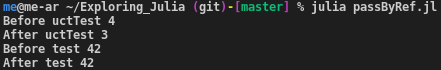
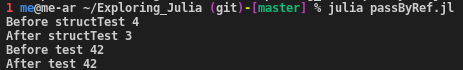
changed code for pass by reference

diff --git a/docs/README.md b/docs/README.md
@@ -21,7 +21,7 @@ Julia is pass by value as long as you are passing in a single primitive. values 
 
 A quick example:
 ```julia
-mutable struct uct
+mutable struct TestType
     var
 end
 
@@ -30,21 +30,21 @@ function test(var)
     return
 end
 
-function uctTest(input::uct)
+function structTest(input::TestType)
     input.var = 3
     return
 end
+# init member variable to 4
+test_struct = TestType(4)
+println("Before structTest $(test_struct.var)")
 
-test_uct = uct(4)
-println("Before uctTest $(test_uct.var)")
-
-uctTest(test_uct)
-println("After uctTest $(test_uct.var)")
+structTest(test_struct) # alter test_struct.var
+println("After structTest $(test_struct.var)")
 
 input_arg = 42
 println("Before test $input_arg")
 
-test(input_arg)
+test(input_arg) # this will not change input_arg
 println("After test $input_arg")
 ```
 That code outputs:
@@ -65,12 +65,11 @@ function f(x,y)
 end
 ```
 
-In this example the first version of the function `f` will be called if the arguments are integers, and the second function will be called if the arguments are not an integer or an integer subtype.
+In this example the first version of the function `f` will be called if the arguments are integers, and the second function will be called if the arguments are not an integer or an integer subtype. Specifying argument types should be done where possible to increase performance.
 
 ## Exception handling
 
-Julia has a lot of builtin exceptions. Some examples follow:
-
+Julia has a lot of builtin exceptions. Some examples of those exceptions follow:
 ```julia
 ArgumentError
 DomainError
@@ -79,7 +78,7 @@ BoundsError
 OutOfMemoryError
 ```
 
-Exceptions can be defined as such:
+Exceptions can be declared and defined as such:
 ```julia
 struct SpecialException <: Exception end
 ```
@@ -108,115 +107,7 @@ end
 
 Memory is  managed automatically, like most scripting languages.
 
-# The Julia paradigm
-
-Julia is not an object oriented programming language. However, there are some leftover traits from the object oriented programming paradigm. The main evidence of this is Julia's subtyping and abstraction.
-
-Julia's abstraction takes place through abstract types. For example:
-```julia
-abstract type Language end
-
-struct English <: Language end
-
-struct Spanish <: Language end
-```
-
-Now any function with
-
-One can declare a subtype of a primitive like this:
-
-```julia
-primitive type Bool <: Integer 8 end
-```
-
-Julia also allows subtyping checks to evaluate to Bool values.
-
-![alt text](https://raw.githubusercontent.com/aklapatch/explore-julia/master/images/evalSubtype.PNG)
-
-### Subtyping applied
-
-Julia can uses this subtyping concept in its equivalent of C++ templates.
-
-```julia
-struct Vehicle{T}
-    Type::T
-    weight::Float64
-    engine::String
-    gun::String
-end
-```
-One can check the subtyping of this struct as such:
-
-![alt text](https://raw.githubusercontent.com/aklapatch/explore-julia/master/images/subtypeStruct.PNG)
-
-Julia uses multiple dispatch, so it does not consider any concrete type to be a subtype of another concrete type.
-
-![alt text](https://raw.githubusercontent.com/aklapatch/explore-julia/master/images/concreteSubtypes.PNG)
-
-Even though:
-
-![alt text](https://raw.githubusercontent.com/aklapatch/explore-julia/master/images/FloatSubtype.PNG)
-
-### Multiple Dispatch
-
-In few words, multiple dispatch is runtime function overloading.
-
-In more words, it selects a function at runtime based on the types of the arguments. If you specify a an argument as a supertype, it will accept all subtypes of that supertype.
-
-```julia
-function test(y::Real)
-    if (y>20)
-        return 1
-    else
-        return 0
-    end
-end
-
-function main()
-    t::Float32 = 34.34234
-    x::Float64 = 34.34234
-    
-    println("val= ",test(t))
-    println("val= ",test(x))
-end
-
-main()
-```
-
-Running that yields this result:
-
-![alt text](https://raw.githubusercontent.com/aklapatch/explore-julia/master/images/subSuperType.PNG)
-
-#### Why Multiple Dispatch? (Why no objects?)
-
-The main reasons I have found are simplicity and ease of extending existing code.
-
-The most common example of this is implementing functions that could, in an object-oriented language, be bound to two different objects. 
-
-One possible situation that exemplifies this is simulating a person starting a car.
-
-In Julia that function could look like this:
-```julia
-function startCar(input_person::Person, input_car::Car)
-    start!(input_car)
-end
-```
-
-Following an object oriented programming style, Java in this case, would have a function prototype like this
-
-```java
-public class Person {
-
-    void startCar(Car input_car){
-        input_car.start();
-    }
-}
-```
-In Julia, functions cannot not bound to an object like Java or C++. The main disadvantage of that is the lack of access control (e.g. public and private functions) and inheritance. 
-
-Multiple dispatch makes up for the inheritance deficiency by allowing the user to redefine fuctions with abstract arguments for more concrete types. This approach is simpler than object oriented programming since it does not have the additional behavior of objects stacked on top of structs and methods.
- 
-## Language features
+# Julia's features
 
 + Package manager
 
@@ -268,7 +159,111 @@ end
 
 ![alt text](https://raw.githubusercontent.com/aklapatch/explore-julia/master/images/MatFunc.png)
 
-## Train of thought
+# The Julia paradigm
+
+Julia is not an object oriented programming language. However, there are some leftover traits from the object oriented programming paradigm. Those leftovers are Julia's subtyping and abstraction.
+
+Julia's abstraction takes place through abstract types. For example:
+```julia
+abstract type Language end
+
+struct English <: Language end
+
+struct Spanish <: Language end
+```
+Now `English` and `Spanish` are subtypes of Languages and both of them can used in functions with the `Language` abstract type.
+
+One could even make subtypes of a primtive. You can declare a subtype of a primitive like this:
+
+```julia
+primitive type Bool <: Integer 8 end
+```
+
+Julia also allows subtyping checks to evaluate to Bool values.
+
+![alt text](https://raw.githubusercontent.com/aklapatch/explore-julia/master/images/evalSubtype.PNG)
+
+## Subtyping applied
+
+Julia can uses this subtyping concept in its equivalent of C++ templates.
+
+```julia
+struct Vehicle{T}
+    Type::T
+    weight::Float64
+    engine::String
+    gun::String
+end
+```
+One can check the subtyping of this struct as such:
+
+![alt text](https://raw.githubusercontent.com/aklapatch/explore-julia/master/images/subtypeStruct.PNG)
+
+Julia uses multiple dispatch, so it does not consider any concrete type to be a subtype of another concrete type.
+
+![alt text](https://raw.githubusercontent.com/aklapatch/explore-julia/master/images/concreteSubtypes.PNG)
+
+Even though:
+
+![alt text](https://raw.githubusercontent.com/aklapatch/explore-julia/master/images/FloatSubtype.PNG)
+
+## Multiple Dispatch
+
+In few words, multiple dispatch is runtime function overloading.
+
+In more words, it selects a function at runtime based on the types of the arguments. If the argument is a supertype or abstract type, it will accept all subtypes of that supertype.
+```julia
+function test(y::Real)
+    if (y>20)
+        return 1
+    else
+        return 0
+    end
+end
+
+function main()
+    t::Float32 = 34.34234
+    x::Float64 = 34.34234
+    
+    println("val= ",test(t))
+    println("val= ",test(x))
+end
+
+main()
+```
+
+Running that yields this result:
+
+![alt text](https://raw.githubusercontent.com/aklapatch/explore-julia/master/images/subSuperType.PNG)
+
+### Why Multiple Dispatch? (Why no objects?)
+
+The main reasons I have found are simplicity and ease of extending existing code.
+
+The most common example of this is implementing functions that could, in an object-oriented language, be bound to two different objects. 
+
+One possible situation that exemplifies this is simulating a person starting a car. In Julia that function could look like this:
+```julia
+function startCar(input_person::Person, input_car::Car)
+    start!(input_car)
+end
+```
+
+Following an object oriented programming style, Java in this case, would have a function prototype like this
+
+```java
+public class Person {
+
+    void startCar(Car input_car){
+        input_car.start();
+    }
+}
+```
+In Julia, functions cannot not bound to an object like Java or C++. The main disadvantage of that is the lack of access control (e.g. public and private functions) and the lack of inheritance. 
+
+Multiple dispatch makes up for the inheritance deficiency by allowing the user to redefine fuctions with abstract arguments for more concrete types. This approach is simpler than object oriented programming since it does not have the additional behavior of objects stacked on top of structs and methods.
+
+# What I noticed
 
 Julia's heritage of other languages leads to a interesting side effect. Juila exemplifies Perl's "There is more than one way to do it." mentality. This effect results from Julia's varing syntaxes that were imported from other programming languages. One example of this is declaring a function.
 
@@ -293,9 +288,9 @@ end
 ```julia
 function abs(x); (x^2)^(1/2); end
 ```
-## Gripes and Nitpicks
+# Gripes and Nitpicks
 
-### Incomplete support
+## Incomplete support
 
 The language does not universally support all of its features across all cases or scenarios.
 
@@ -309,9 +304,7 @@ This results in:
 
 ![alt text](https://raw.githubusercontent.com/aklapatch/explore-julia/master/images/typingGlobalVars.png)
 
-### "Features"
-
-#### Scope specification
+## Scope specification
 
 The scope in julia has a unique mechanic involved in it. This design choice can be good for clarity, but it only if you know what it means. Here is an example.
 
@@ -336,13 +329,11 @@ If you omitted that `global bestfit` statement, you would encounter this error:
 
 ![alt text](https://raw.githubusercontent.com/aklapatch/explore-julia/master/images/juliaGlobalError.png)
 
-To access the global variables you declared earlier, you need to specify that they want to access that variable. The problem is that that the scope specification, this statement:
-```julia
-global bestfit
-``` 
+To access the global variables you declared earlier, you need to specify that they want to access that variable. The problem is that that the scope specification, the statement
+```global bestfit``` 
 looks like a variable declaration. This could be confusing and decreases readability if you do not know what it is. Other languages do not have this "feature" and are fine without it. Julia could be made simpler without a significant consequence by omitting this feature.
 
-#### Mutable structs
+## Breaking conventions
 
 This how you declare an immutable struct:
 ```julia
@@ -356,7 +347,7 @@ end
 This is how you declare a mutable struct:
 ```julia
 mutable struct person
-    age::Int8
+    age::UInt8
     beliefs::String
 end
 ```
